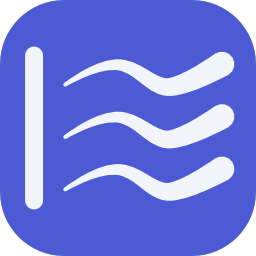
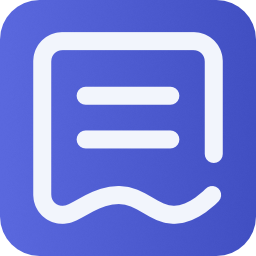
docs: 修改文档和图标
- 修改 README.md
- 修改应用 icon

diff --git a/README-en.md b/README-en.md
@@ -1,0 +1,185 @@
+<p align="center">
+  <img src="resources/icon.png" width="72" alt="FlowLog icon">
+</p>
+
+<h1 align="center">FlowLog · 流记</h1>
+
+<p align="center">A desktop app for logging daily study: organize study logs by subject, chapter, and key points, with daily todos.</p>
+
+<p align="center">
+  <a href="README.md">简体中文</a> ·
+  <a href="README-en.md">English</a>
+</p>
+
+<p align="center">The developer is still a college student, and this project is intended as a small local tool. Please be forgiving if it falls short.</p>
+
+<p align="center">Built with DeepSeek Harness and the DeepSeek V4.1 Flash model.</p>
+
+<p align="center">
+  <img src="https://img.shields.io/badge/MyGo-v0.10.0-4C5BD4" alt="MyGo v0.10.0">
+  <img src="https://img.shields.io/badge/Go-1.27-00add8" alt="Go 1.27">
+  <img src="https://img.shields.io/badge/license-MIT-2f855a" alt="License MIT">
+  <img src="https://img.shields.io/badge/platforms-Windows%20%7C%20macOS%20%7C%20Linux-444" alt="Platforms Windows | macOS | Linux">
+  <img src="https://img.shields.io/badge/Agent-DeepSeek_Harness-blue?logo=deepseek" alt="Agent DeepSeek Harness">
+</p>
+
+FlowLog is built with [MyGo](https://mygo.run)'s native UI mode: the interface is described in Go code and rendered by MyGo on the GPU. It does not load a WebView and has no HTML, JavaScript, or frontend build step.
+
+The UI follows a Material Design 3-like style: primary colors, container levels, corner radii, and motion are organized by MD3 roles.
+
+## ◈ Features
+
+| Module    | Description                                                                                                                                                                                                                    |
+| --------- | ------------------------------------------------------------------------------------------------------------------------------------------------------------------------------------------------------------------------------ |
+| Home      | Daily quote (with Bing's daily wallpaper as background), streak days, today's key points, and todo reminders (due today and tomorrow)                                                                                          |
+| Study Log | Cards sorted by date descending; each entry contains subject, chapter, section, several key points, and a note. Key points can be marked as reviewed; supports subject filtering and full-text search with highlighted matches |
+| Journal   | A reverse-chronological list of daily journal notes—the things you really want to write down each day. Supports search, edit, and delete; independent of Study Log                                                             |
+| Todos     | All todos in one list; optional due date per item; sorted by due date; supports checking, copying, deleting (undoable), and filtering by status                                                                                |
+| Sidebar   | Number of entries today and remaining todos; the month calendar marks days with entries; click a day to jump to that day's Study Log                                                                                           |
+| Settings  | Display name, appearance (with icons), data backup and restore, auto backup, keyboard shortcuts, about, and version updates                                                                                                    |
+| Window    | Custom title bar: minimize / maximize / close at the top right; the whole bar is draggable; double-click to maximize                                                                                                           |
+
+## ◈ Screenshots
+
+| Home · Dark (default)              | Home · Light                                   |
+| ---------------------------------- | ---------------------------------------------- |
+| ![Home](docs/screenshots/home.png) | ![Home Light](docs/screenshots/home-light.png) |
+
+| Study Log                                | Study Log · Light                                    |
+| ---------------------------------------- | ---------------------------------------------------- |
+| ![Study Log](docs/screenshots/study.png) | ![Study Log Light](docs/screenshots/study-light.png) |
+
+| Journal                                | Write a Journal Note                                      |
+| -------------------------------------- | --------------------------------------------------------- |
+| ![Journal](docs/screenshots/notes.png) | ![Write a Journal Note](docs/screenshots/note-editor.png) |
+
+| Todos                               | Settings                                   |
+| ----------------------------------- | ------------------------------------------ |
+| ![Todos](docs/screenshots/todo.png) | ![Settings](docs/screenshots/settings.png) |
+
+| Search Highlight                                       | Write a Study Entry                                 |
+| ------------------------------------------------------ | --------------------------------------------------- |
+| ![Search Highlight](docs/screenshots/study-search.png) | ![Write a Study Entry](docs/screenshots/editor.png) |
+
+## ◈ Requirements
+
+- Go 1.27 or later
+- MyGo CLI: the project pins it as a `tool` dependency in `go.mod`. Invoke it with `go tool mygo`; no separate installation is required.
+- Building installers requires platform tools such as NSIS (Windows installer). See the [MyGo distribution docs](https://mygo.run/docs/distribution).
+
+## ◈ Development
+
+```bash
+go tool mygo dev      # Compile, launch the app, and restart on Go code changes
+go test ./...         # Unit tests and UI interaction tests
+go vet ./...          # Static checks
+gofmt -l .            # Check formatting
+```
+
+UI previews are rendered as PNGs during tests (light, dark, filtering, and modal previews):
+
+```bash
+go test ./internal/view -run TestPreview -v
+```
+
+## ◈ Build
+
+```bash
+go tool mygo build                 # Current platform
+go tool mygo build -platform windows/amd64,darwin/arm64
+```
+
+Artifacts are placed in `build/`. Windows produces an installer, macOS produces `.app` and `.dmg`, and Linux produces `.tar.gz` and an install script.
+
+## ◈ Data
+
+The database file is `data/flowlog.db` (SQLite). Its location depends on how the app is run:
+
+| How it runs                     | Data directory                                                                                                       |
+| ------------------------------- | -------------------------------------------------------------------------------------------------------------------- |
+| `go tool mygo dev` / `go run .` | `./data` under the project                                                                                           |
+| Installed app                   | Windows `%APPDATA%\FlowLog\data`, macOS `~/Library/Application Support/FlowLog/data`, Linux `~/.config/FlowLog/data` |
+| `FLOWLOG_DATA` is set           | Use that directory (handy for a synced drive)                                                                        |
+
+Schema:
+
+| Table      | Contents                                                          |
+| ---------- | ----------------------------------------------------------------- |
+| `days`     | Dates that have study logs                                        |
+| `entries`  | Study entries belonging to a day                                  |
+| `points`   | Key points belonging to an entry                                  |
+| `todos`    | Todos: content, completion state, created date, optional due date |
+| `settings` | Key-value settings (appearance, display name, auto backup)        |
+
+Study-log writes are transactional: a save either fully succeeds or fully rolls back. Todos are read and written one by one.
+
+Databases from older versions (0.3 and earlier) are upgraded automatically on startup; existing data is preserved.
+
+**Backup and migration**
+
+- **Auto backup**: on the first launch each day, all data is written to `backups/flowlog-auto-<date>-<time>.json`. The latest 14 backups are kept by default; you can disable it, adjust the count, or back up immediately in Settings.
+- **Export backup**: generates a JSON file containing all study logs, todos, and settings.
+- **Restore from backup**: choose a backup file and overwrite all current data (with a second confirmation). Before overwriting, a `flowlog-before-restore-*.json` file is saved automatically, so you can recover if you restore the wrong file.
+
+## ◈ Auto Update
+
+The app uses MyGo's update mechanism: update packages are signed with an Ed25519 private key, and the corresponding public key is embedded in the app. On startup, the app checks for updates, downloads, verifies, and replaces files, then restarts.
+
+### Release Process
+
+1. Update `version` in `mygo.json` and add a `## <version>` section to `CHANGELOG.md`.
+2. Commit and tag: `git tag v0.x.x && git push origin v0.x.x`.
+3. GitHub Actions reads that version's CHANGELOG as release notes, creates a draft Release, and builds and uploads artifacts in parallel on three platforms.
+4. Once all jobs succeed, the release is published automatically; installed apps will see the new version on their next check.
+
+Workflow: [.github/workflows/release.yml](.github/workflows/release.yml).
+
+### One-time Setup
+
+In the repository's **Settings → Secrets and variables → Actions**, add:
+
+| Secret                     | Value                              |
+| -------------------------- | ---------------------------------- |
+| `MYGO_UPDATER_PRIVATE_KEY` | Full contents of `mygo-update.key` |
+
+The private key is generated by `go tool mygo keygen` and is stored by default under the user config directory at `mygo/update-keys/`.
+
+If the private key is lost, you will no longer be able to push updates to installed users. Back it up carefully.
+
+Optional (official signing, to avoid macOS Gatekeeper and Windows SmartScreen blocks): see [MyGo app signing](https://mygo.run/zh/docs/github-actions).
+
+### How Updates Work
+
+- Installed apps check every 24 hours; you can also check manually in Settings.
+- When a new version is found, you can download and install it directly from Settings; the app restarts automatically after installation.
+- Only updates signed with the same private key are accepted.
+- Development builds (`mygo dev`, `go run`) and package-manager installs do not participate in auto-update; users can also download new versions manually from Releases.
+
+## ◈ Project Structure
+
+```text
+main.go                  Startup, window, database open/close, release notes
+internal/model/          Data structures (Day / Entry / Point / Todo / Settings)
+internal/store/          SQLite read/write, schema upgrades, backup export and restore
+internal/design/         Design system: MD3 palette, font sizes, radii, motion, icons, base components
+internal/app/            App state and actions: study logs, todos, settings, backups, updates, background image
+internal/pages/          Five pages: Home, Study Log (with filtering and editor modal), Journal, Todos, Settings
+internal/view/           Window shell: root view, sidebar, month calendar, global overlays, shortcuts
+resources/               App icon (also embedded in the binary)
+docs/                    Development notes and UI screenshots
+.github/workflows/       Three-platform release workflow
+```
+
+The dependency direction is one-way: `design ← app ← pages ← view ← main`.
+
+Pages only read state and call actions; the state layer does not draw UI; the design system knows nothing about business logic.
+
+## ◈ Known Limitations
+
+- UI text is in Chinese; built-in controls (calendar, number input) already display with the Chinese language pack.
+- Auto-update depends on GitHub Releases; the repository must be public or use an accessible HTTPS URL.
+- Currently only single-window, local single-user data is supported.
+
+## ◈ License
+
+[MIT](LICENSE)

diff --git a/README.md b/README.md
@@ -1,16 +1,27 @@
-# <img src="resources/icon.png" width=30> 流记 · FlowLog
+<p align="center">
+  <img src="resources/icon.png" width="72" alt="流记 FlowLog 图标">
+</p>
 
-一个记录每日学习情况的桌面应用：按科目、章节与要点组织学记，附带当天待办。
+<h1 align="center">流记 · FlowLog</h1>
 
-开发者还只是个大学生，该项目仅作为本地小工具，如有不满，请见谅。
+<p align="center">一个记录每日学习情况的桌面应用：按科目、章节与要点组织学记，附带当天待办。</p>
 
-使用 DeepSeek Harness 配合 DeepSeek V4.1 Flash 模型开发。
+<p align="center">
+  <a href="README.md">简体中文</a> ·
+  <a href="README-en.md">English</a>
+</p>
 
-![MyGo](https://img.shields.io/badge/MyGo-v0.10.0-4C5BD4)
-![Go](https://img.shields.io/badge/Go-1.27-00add8)
-![License](https://img.shields.io/badge/license-MIT-2f855a)
-![Platforms](https://img.shields.io/badge/platforms-Windows%20%7C%20macOS%20%7C%20Linux-444)
-![Agent](https://img.shields.io/badge/Agent-DeepSeek_Harness-blue?logo=deepseek)
+<p align="center">开发者还只是个大学生，该项目仅作为本地小工具，如有不满，请见谅。</p>
+
+<p align="center">使用 DeepSeek Harness 配合 DeepSeek V4.1 Flash 模型开发。</p>
+
+<p align="center">
+  <img src="https://img.shields.io/badge/MyGo-v0.10.0-4C5BD4" alt="MyGo v0.10.0">
+  <img src="https://img.shields.io/badge/Go-1.27-00add8" alt="Go 1.27">
+  <img src="https://img.shields.io/badge/license-MIT-2f855a" alt="License MIT">
+  <img src="https://img.shields.io/badge/platforms-Windows%20%7C%20macOS%20%7C%20Linux-444" alt="Platforms Windows | macOS | Linux">
+  <img src="https://img.shields.io/badge/Agent-DeepSeek_Harness-blue?logo=deepseek" alt="Agent DeepSeek Harness">
+</p>
 
 流记使用 [MyGo](https://mygo.run) 的原生 UI 模式编写：界面由 Go 代码描述，由 MyGo 在 GPU 上绘制，不加载 WebView，也没有 HTML、JavaScript 与前端构建步骤。
 
@@ -22,11 +33,11 @@
 | ------ | ---------------------------------------------------------------------------------------------------------------------------- |
 | 首页   | 每日寄语（背景为必应每日一图）、连续记录天数、今日要点、待办提醒（今天与明天到期）                                           |
 | 学记   | 按日期倒序的记录卡片；一条记录包含科目、章、节、若干要点与备注，可标记要点为已复习；支持按科目筛选与全文搜索，命中的字带高亮 |
-| 随笔   | 按日期倒序的一列随笔，记录每天真正想写下的东西；支持搜索、编辑与删除，和学记互不影响                                       |
+| 随笔   | 按日期倒序的一列随笔，记录每天真正想写下的东西；支持搜索、编辑与删除，和学记互不影响                                         |
 | 待办   | 全部待办列表；可为每条设置截止日期，按截止日期排序；支持勾选、复制、删除（可撤销）、按状态筛选                               |
 | 侧边栏 | 今天记录了多少条、还有多少待办；月历中标出有记录的日子，点一天直接跳到那一天的学记                                           |
 | 设置   | 称呼、外观（带图标）、数据备份与恢复、自动备份、快捷键、关于与版本更新                                                       |
-| 窗口   | 自绘标题栏：右上角最小化 / 最大化 / 关闭，整条可拖动，双击最大化                                                              |
+| 窗口   | 自绘标题栏：右上角最小化 / 最大化 / 关闭，整条可拖动，双击最大化                                                             |
 
 ## ◈ 截图
 
@@ -38,8 +49,8 @@
 | ----------------------------------- | --------------------------------------------- |
 | ![学记](docs/screenshots/study.png) | ![学记浅色](docs/screenshots/study-light.png) |
 
-| 随笔                               | 写随笔                                       |
-| ---------------------------------- | -------------------------------------------- |
+| 随笔                                | 写随笔                                      |
+| ----------------------------------- | ------------------------------------------- |
 | ![随笔](docs/screenshots/notes.png) | ![写随笔](docs/screenshots/note-editor.png) |
 
 | 待办                               | 设置                                   |
@@ -106,16 +117,13 @@ go tool mygo build -platform windows/amd64,darwin/arm64
 
 **备份与迁移**
 
-- **自动备份**：每天首次启动时把全部数据写到 `backups/flowlog-auto-<日期>-<时间>.json`，
-  默认保留最近 14 份；可以在设置里关掉、调整份数或立即备份。
+- **自动备份**：每天首次启动时把全部数据写到 `backups/flowlog-auto-<日期>-<时间>.json`，默认保留最近 14 份；可以在设置里关掉、调整份数或立即备份。
 - **导出备份**：生成一个 JSON 文件，包含全部学记、待办与设置。
-- **从备份恢复**：选择备份文件，覆盖当前全部数据（会二次确认）；
-  覆盖之前会先自动存一份 `flowlog-before-restore-*.json`，恢复错了还能找回。
+- **从备份恢复**：选择备份文件，覆盖当前全部数据（会二次确认）；覆盖之前会先自动存一份 `flowlog-before-restore-*.json`，恢复错了还能找回。
 
 ## ◈ 自动更新
 
-应用使用 MyGo 的更新机制：更新包由 Ed25519 私钥签名，应用内置对应公钥，启动后自动检查、
-下载、校验并替换文件，随后重启生效。
+应用使用 MyGo 的更新机制：更新包由 Ed25519 私钥签名，应用内置对应公钥，启动后自动检查、下载、校验并替换文件，随后重启生效。
 
 ### 发布流程
 
@@ -145,12 +153,11 @@ go tool mygo build -platform windows/amd64,darwin/arm64
 - 已安装的应用每 24 小时检查一次，也可在设置页手动检查。
 - 发现新版本后可在设置页直接下载安装，安装完成后应用自动重启。
 - 只有用同一私钥签名的更新才会被接受。
-- 开发构建（`mygo dev`、`go run`）与包管理器安装的版本不参与自动更新；
-  用户也可以从 Releases 手动下载新版本。
+- 开发构建（`mygo dev`、`go run`）与包管理器安装的版本不参与自动更新；用户也可以从 Releases 手动下载新版本。
 
 ## ◈ 项目结构
 
-```
+```text
 main.go                  启动、窗口、数据库打开与关闭、发布说明
 internal/model/          数据结构（Day / Entry / Point / Todo / Settings）
 internal/store/          SQLite 读写、schema 升级、备份导出与恢复
@@ -164,6 +171,7 @@ docs/                    开发手记与界面截图
 ```
 
 依赖方向是单向的：`design ← app ← pages ← view ← main`。
+
 页面只读状态、调动作；状态层不画界面；设计系统不认识业务。
 
 ## ◈ 已知限制
